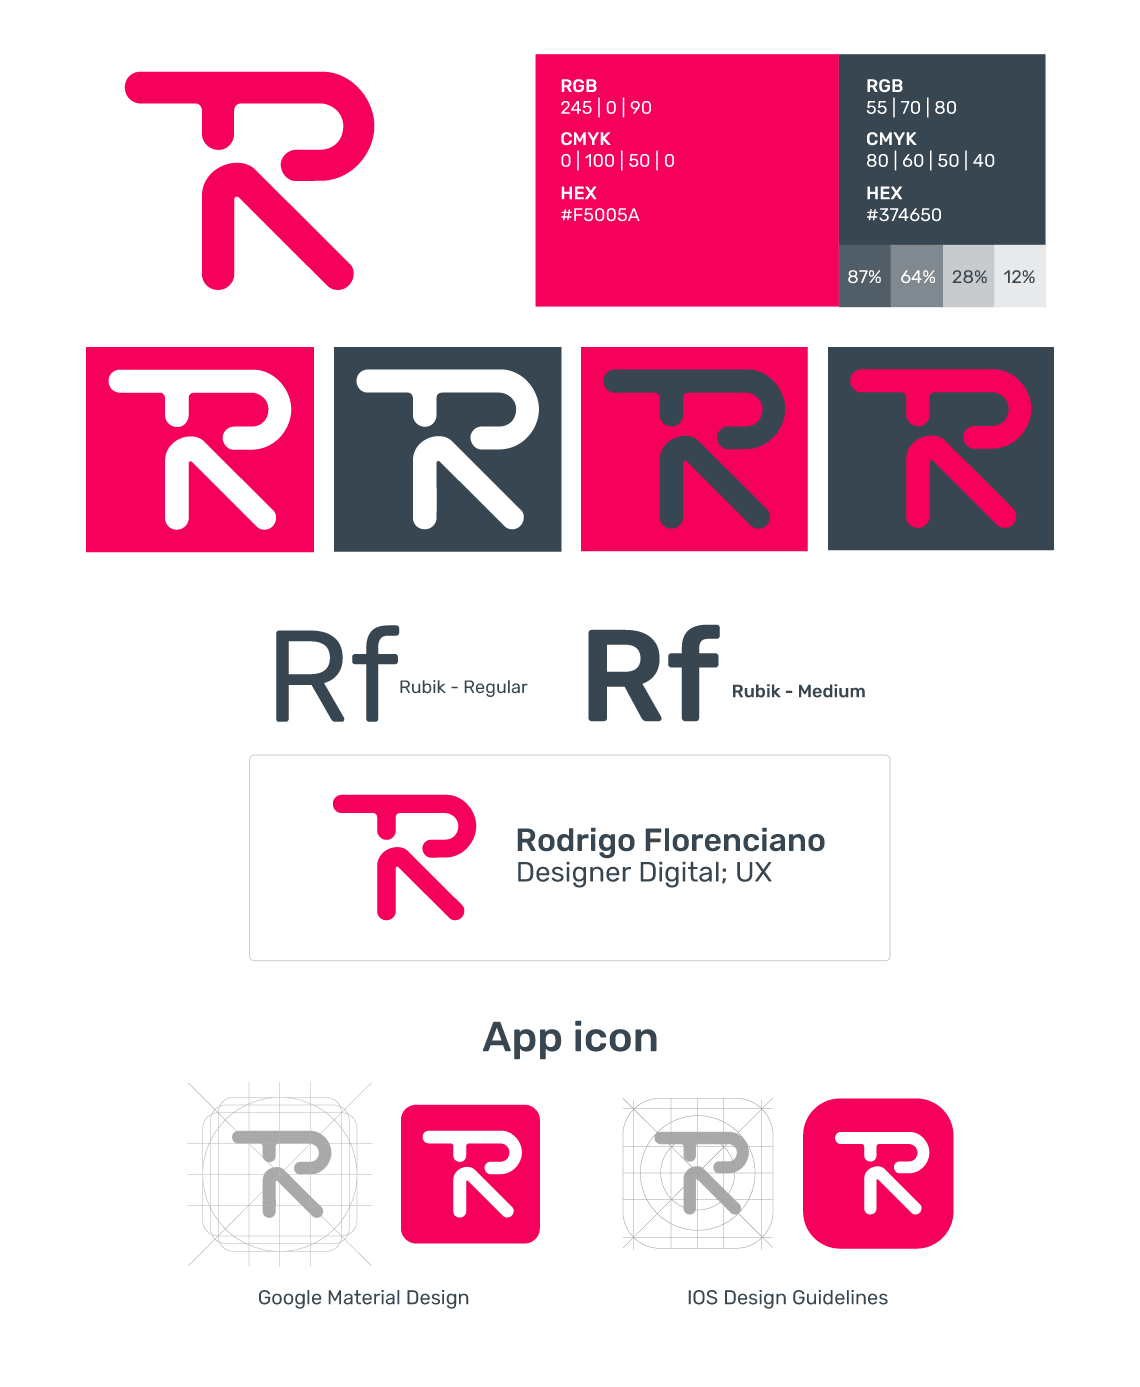
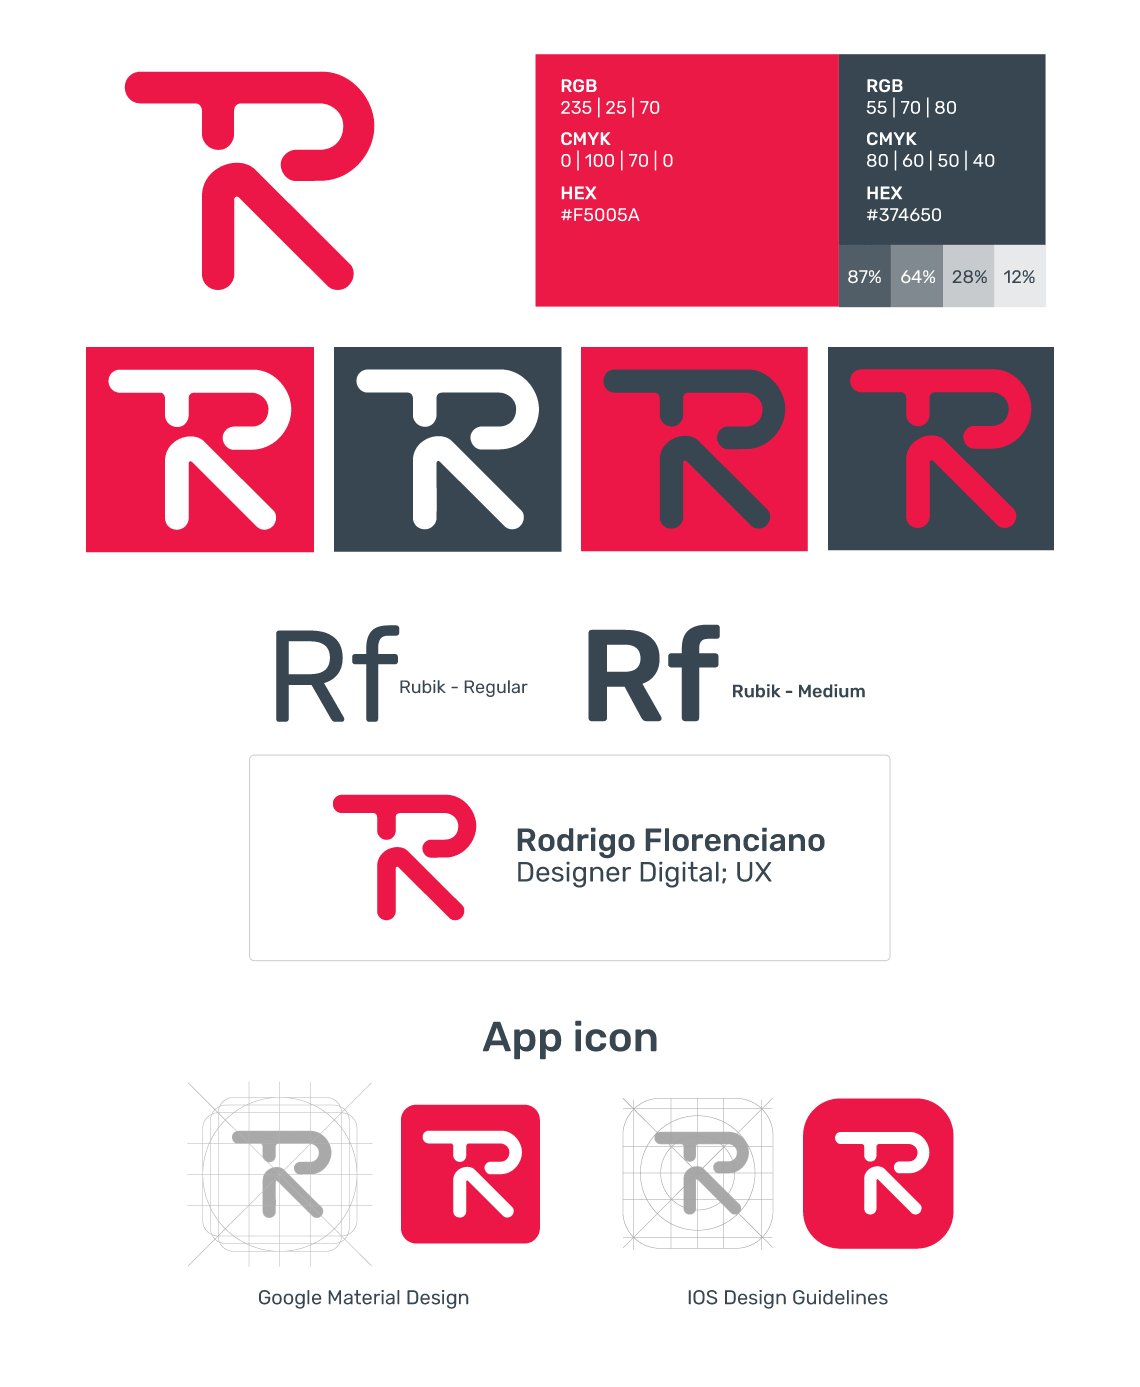
adjust color accessibility

Changed region(s): [[0.4605, 0.031, 0.7368, 0.248]]

diff --git a/new/projeto/de-me-uma-identidade/index.html b/new/projeto/de-me-uma-identidade/index.html
@@ -162,7 +162,7 @@
         <div class="container-fluid p-0 mt-3 mb-5">
             <div class="row no-gutters">
                 <div class="col-12">
-                    <img src="../../assets/img/projeto/de-me-uma-identidade/identidade-visual-rodrigo-florenciano-papelaria.jpg" alt="Rodrigo Florenciano - identidade papelaria" title="Rodrigo Florenciano - Designer digital, UX - material impresso" class="img-fluid mx-auto d-block">
+                    <img src="../../assets/img/projeto/de-me-uma-identidade/identidade-visual-rodrigo-florenciano-papelaria.png" alt="Rodrigo Florenciano - identidade papelaria" title="Rodrigo Florenciano - Designer digital, UX - material impresso" class="img-fluid mx-auto d-block">
                 </div>
             </div>
         </div>
